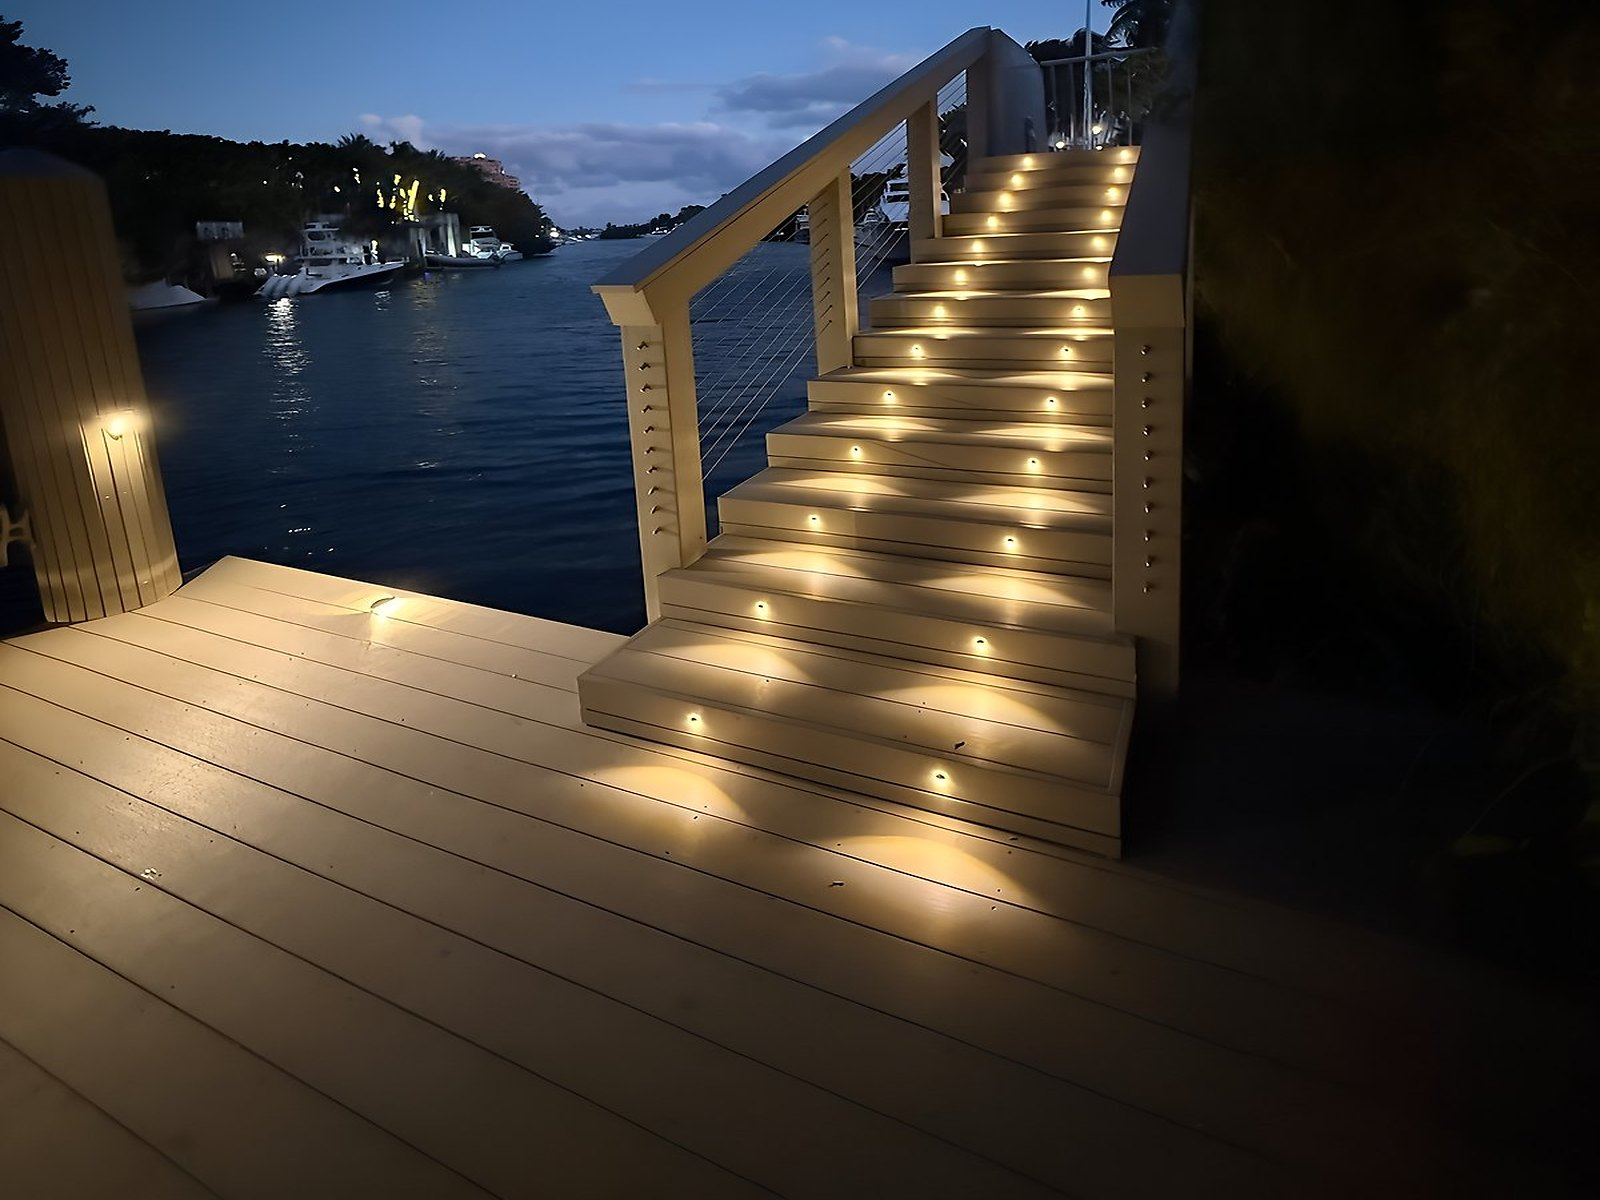
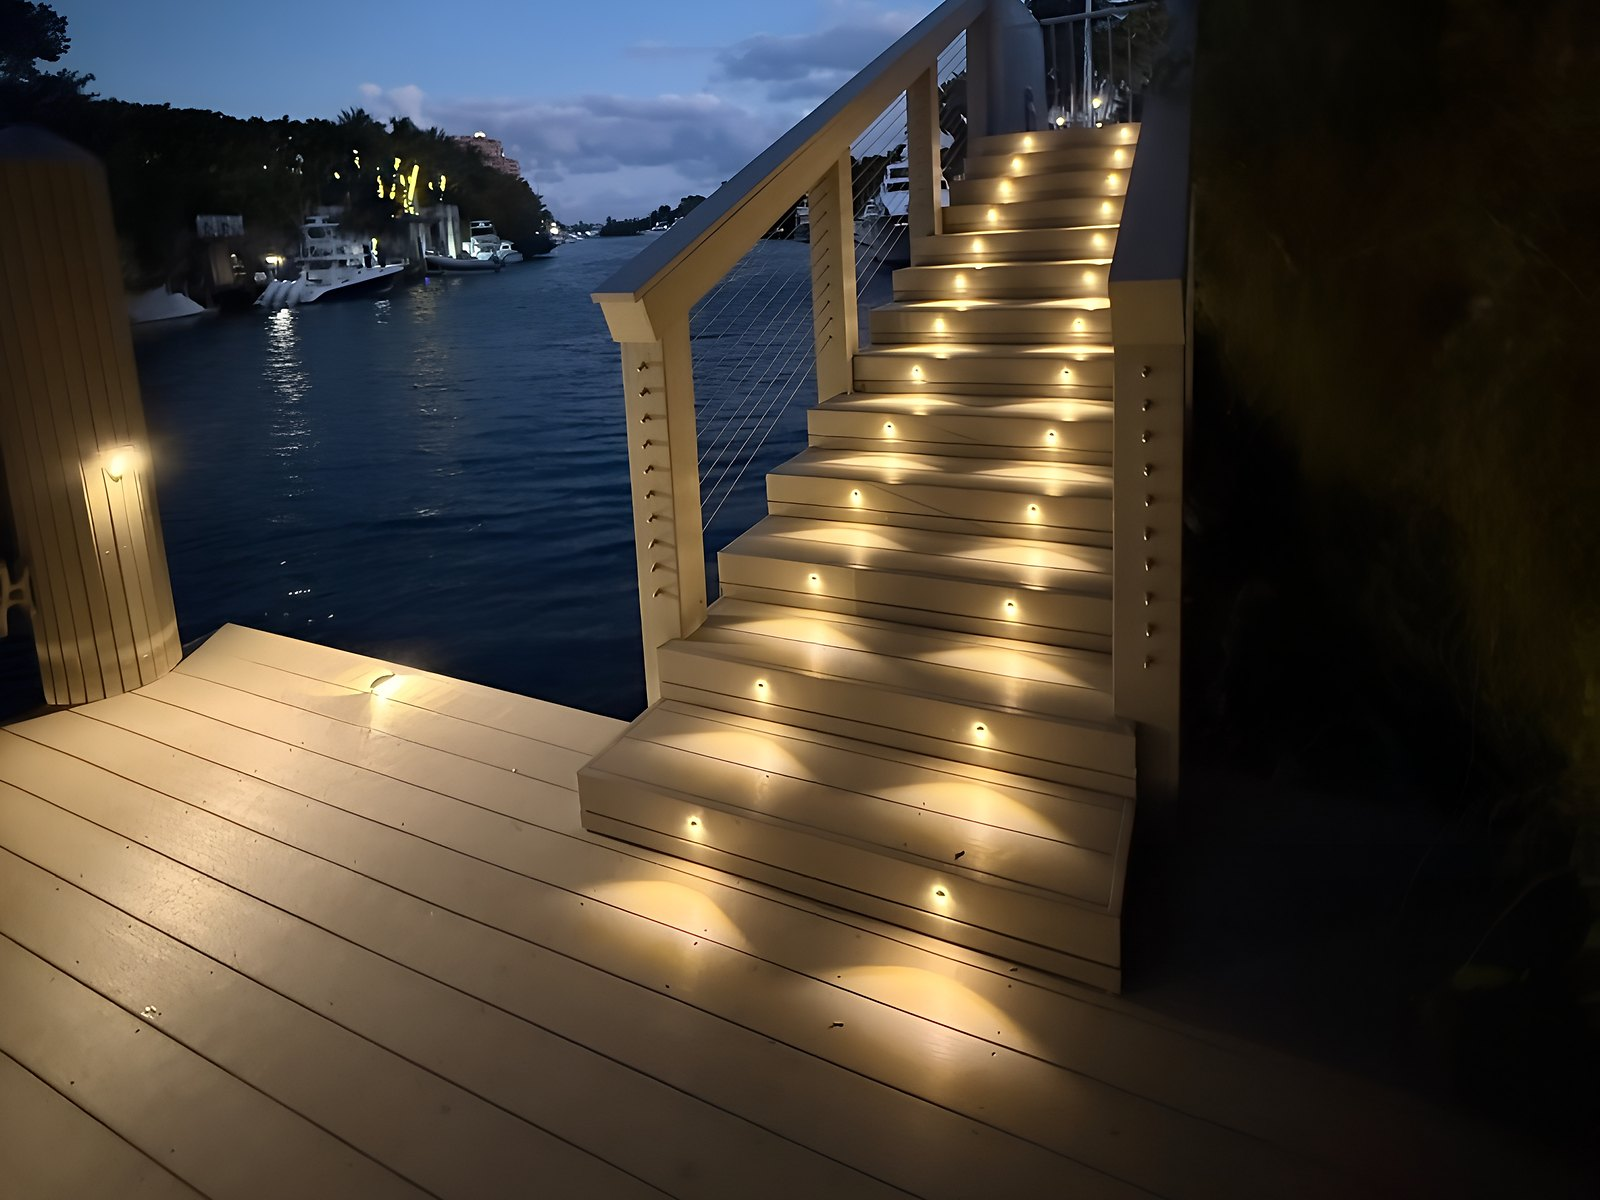
fix(decks): smart crop staircase from full-res original — centered on lit steps + deck, 1600x1200, 205KB

diff --git a/decks.html b/decks.html
@@ -177,7 +177,7 @@
           src="images/deck-light-stairs.jpg"
           alt="Waterfront composite deck staircase at twilight with warm golden LED step riser lights and cable railing — South Florida"
           loading="lazy"
-          style="width:100%;height:100%;object-fit:cover;object-position:center 60%;display:block;transition:transform 0.45s ease;"
+          style="width:100%;height:100%;object-fit:cover;object-position:center 50%;display:block;transition:transform 0.45s ease;"
           onmouseover="this.style.transform='scale(1.05)'"
           onmouseout="this.style.transform='scale(1)'"
         />
